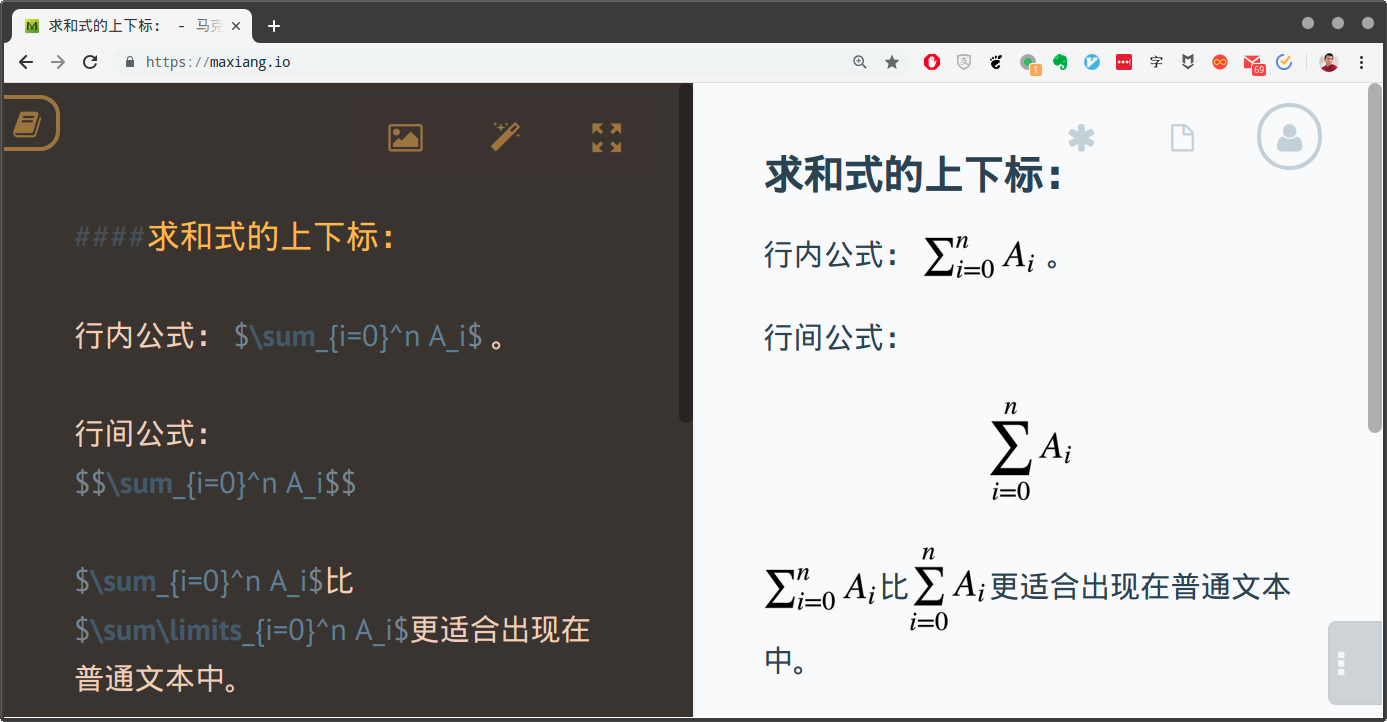
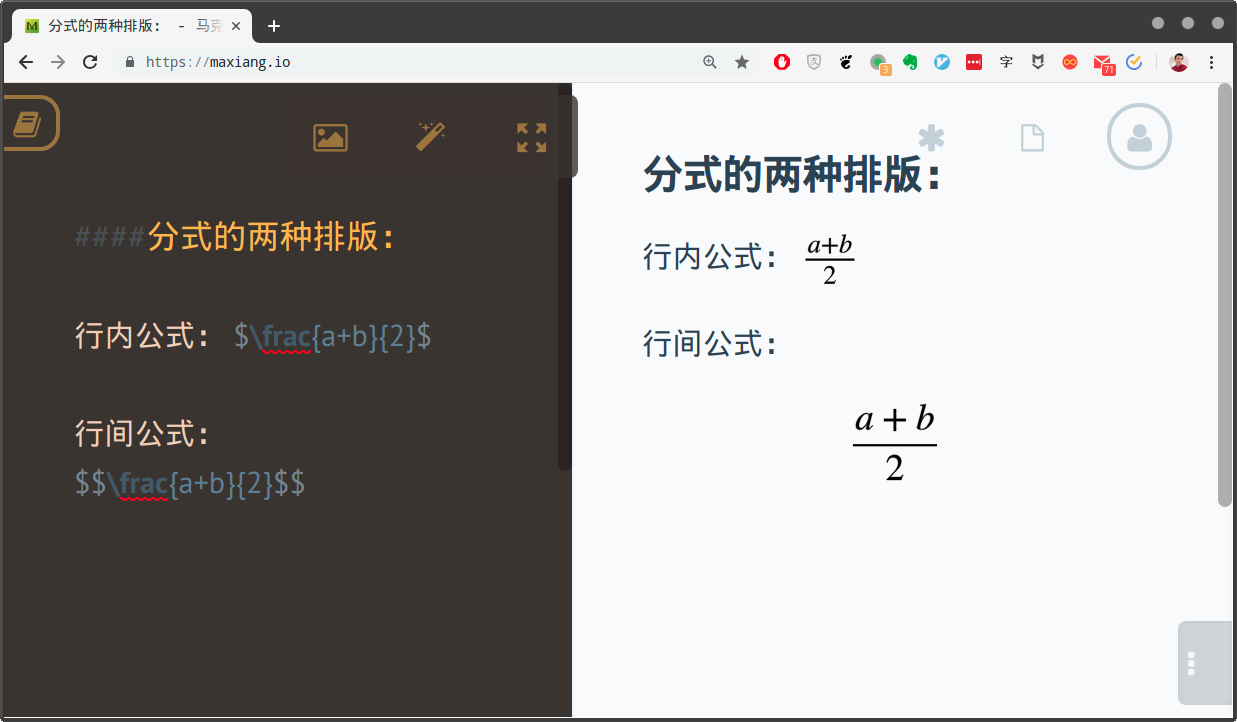
4.2.3.3 分式与根式

diff --git a/src/04_第四章.md b/src/04_第四章.md
@@ -138,12 +138,12 @@ $$ c = \sqrt{a^{2} + b^{2}} $$
 
 我们在进行数学公式的推演和分析时，经常会需要在公式的上下方画上一些线或者花括号，以便标注一些信息，这也形成了一种独特的**标注结构**。在这一节中，我们就来介绍一下这种结构的公式编辑。先来看最简单的线条标注，在$\LaTeX$中，线条标注是通过`\overline`和`\underline`这两个标记来完成的。请注意，这两个标记不止可以作用在一般结构的数学公式上，它们可以与任意结构的公式进行嵌套组合。下面，我们来演示一下它们的用法：
 
-| 公式编码                             | 渲染效果                           |
-|-------------------------------------|-----------------------------------|
-| `$\overline{ab}=\overline{a}*\overline{b}$` | $\overline{ab}=\overline{a}*\overline{b}$ |
-| `$\underline{c}=\underline{a^2+b^3}$` | $\underline{c}=\underline{a^2+b^3}$ |
+| 公式编码                                       | 渲染效果                                      |
+|-----------------------------------------------|---------------------------------------------|
+| `$\overline{ab}=\overline{a}*\overline{b}$`   | $\overline{ab}=\overline{a}*\overline{b}$   |
+| `$\underline{c}=\underline{a^2+b^3}$`         | $\underline{c}=\underline{a^2+b^3}$         |
 | `$\underline{\overline{a^2}+\overline{b}^3}$` | $\underline{\overline{a^2}+\overline{b}^3}$ |
-| `$a^{\overline{2}}+b^{\underline{^3}}$` | $a^{\overline{2}}+b^{\underline{^3}}$ |
+| `$a^{\overline{2}}+b^{\underline{^3}}$`       | $a^{\overline{2}}+b^{\underline{^3}}$       |
 
 除此之外。我们还可以使用`amsmath`宏组中提供的六种带箭头的线条：
 
@@ -158,14 +158,48 @@ $$ c = \sqrt{a^{2} + b^{2}} $$
 
 学习完线条标注的方法之后，接下来我们来看看如何用花括号来进行标注。在$\LaTeX$中，公式上下方的花括号标注是用`\overbrace`和`\underbrace`这两个标记来完成的，它们与之前线条标注之间最大的区别，就是花括号可以通过上标和下标来对公式进行文字标注，这在我们描述数学公式的分析过程中是非常有用的。下面我们就来演示一下这两个标记的用法：
 
-| 公式编码                       | 渲染效果                           |
-|-------------------------------|-----------------------------------|
-| `$a+c-\overbrace{b*d}$` | $a+c-\overbrace{b*d}$ |
-| `$a+c-\underbrace{b*d}$` | $a+c-\underbrace{b*d}$ |
-| `$a+c-\overbrace{b*d}^{\text{乘法优先}}$` | $a+c-\overbrace{b*d}^{\text{乘法优先}}$ |
+| 公式编码                                   | 渲染效果                                 |
+|-------------------------------------------|----------------------------------------|
+| `$a+c-\overbrace{b*d}$`                   | $a+c-\overbrace{b*d}$                  |
+| `$a+c-\underbrace{b*d}$`                  | $a+c-\underbrace{b*d}$                 |
+| `$a+c-\overbrace{b*d}^{\text{乘法优先}}$`  | $a+c-\overbrace{b*d}^{\text{乘法优先}}$  |
 | `$a+c-\underbrace{b*d}_{\text{乘法优先}}$` | $a+c-\underbrace{b*d}_{\text{乘法优先}}$ |
 
 #### 4.2.3.3 分式与根式
+
+由于**分式**与**根式**都属于数学公式中极为常见的结构，并且它们在结构上也都相对简单，所以，我们打算将它们放在同一节中来介绍。先从**分式**开始，在$\LaTeX$中，分式是通过`\frac`标记来实现的，其第一个参数为分子，第二个参数为分母。下面，我们来演示一下分式标记的具体使用：
+
+| 公式编码                       | 渲染效果                           |
+|-------------------------------|-----------------------------------|
+| `$\frac{1}{2}$`               | $\frac{1}{2}$                     |
+| `$\frac{1}{a}$`               | $\frac{1}{a}$                     |
+| `$\frac{1}{a+b}$`             | $\frac{1}{a+b}$                   |
+| `$\frac{a+b}{2}$`             | $\frac{a+b}{2}$                   |
+
+请注意，我们在表格中使用的都是分式的行内公式形态，如果拿它们对比一下分式的行间公式形态，就会发现其行内公式形态的分子和分母都使用了较小的字号，以配合普通文本的行高和行间距，以影响排版的整体质感，譬如：
+
+![分式的两种排版](img/4-3.png)
+
+当然，有时在行间公式中，我们也会想要让公式某一部分的字体小一点，采用行内公式形态，某一部分的字体大一点，采用行间公式形态。这时候，我们就可以使用`amsmath`宏组中提供的`\dfrac`（行间形态）和`\tfrac`（行内形态）来具体指定。譬如通过如下公式的比对，我们可以看到使用指定标记之后的效果：
+
+![分式的两种排版标记](img/4-4.png)
+
+除此之外，我们还会看到一些类似的、分上下两层的公式结构，譬如二项式系数，它使用的是`\binom`标记，用法与分式标记完全一致，这里就不一一累述了。下面，我们来看看**根式**的结构，在$\LaTeX$中，根式是通过`\sqrt`标记来完成，该命令标记除了固定的指定参数外，还可以通过一个可选参数来表示开方的次数。我们来演示一下根式标记的具体使用：
+
+| 公式编码                       | 渲染效果                           |
+|-------------------------------|-----------------------------------|
+| `$\sqrt{4}$`                  | $\sqrt{4}$                        |
+| `$\sqrt[3]{8}$`               | $\sqrt[3]{8}$                     |
+| `$\sqrt[n]{a+b}$`             | $\sqrt[n]{a+b}$                   |
+| `$\sqrt[n]{\frac{1}{a+b}}$`   | $\sqrt[n]{\frac{1}{a+b}}$         |
+
+同样地。我们也可以使用`amsmath`宏组中提供的标记，对根式的排版样式做一些指定。例如，在一般状况下，根式的高度是随着其内容变化的，但当我们需要将几个根式并列出现在同一个公式中时，就会希望这些根式的高度是一致的，这时候就会需要用到`\vphantom`标记。我们可以来比对一下该标记使用之后的效果：
+
+![vphantom标记的效果](img/4-5.png)
+
+再例如，我们还可以通过`\uproot`和`\leftroot`这两个标记来调整开方次数所显示的位置，这两个命令标记的参数允许我们输入偏移量，以调整位置：
+
+![调整开方次数的显示位置](img/4-6.png)
 
 #### 4.2.3.4 向量与矩阵
 
